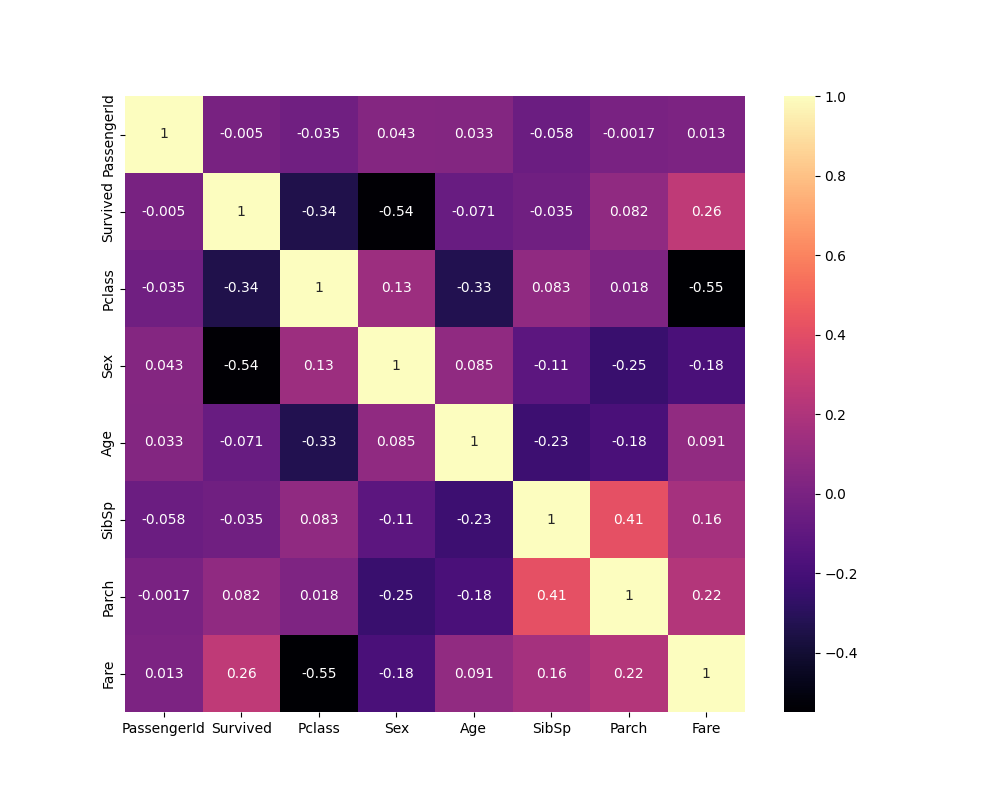
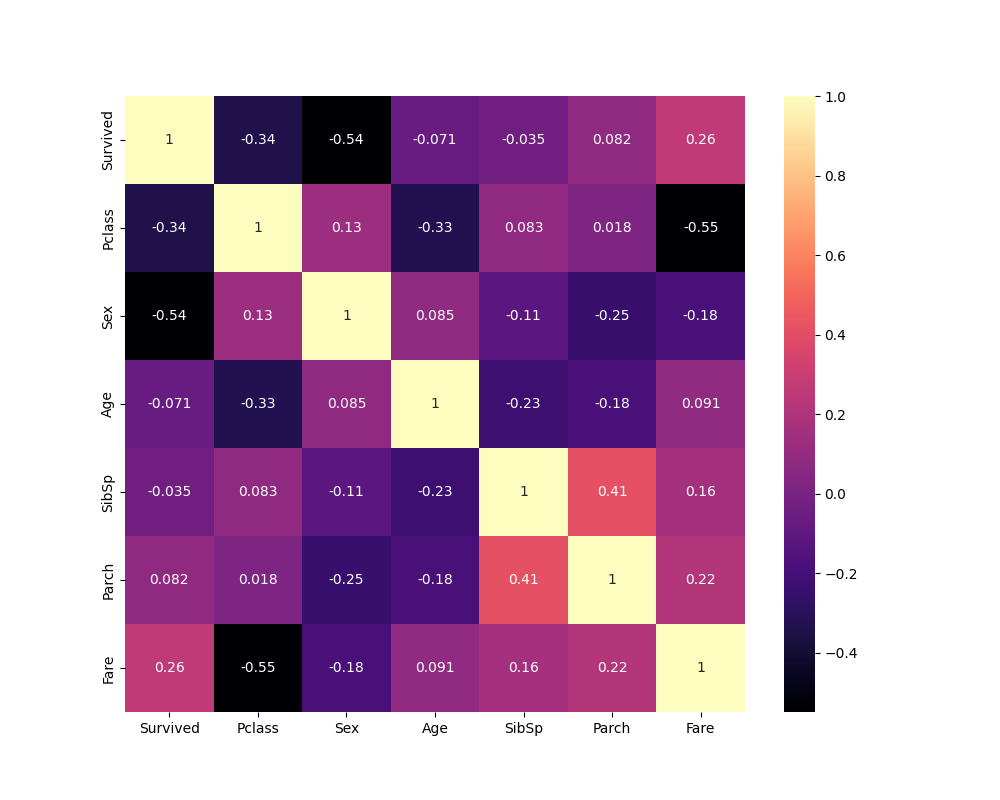
Minor change

Changed region(s): [[0.093, 0.0938, 0.744, 0.9375], [0.589, 0.9062, 0.651, 0.9375], [0.682, 0.9062, 0.713, 0.9375]]

diff --git a/MachineLearningProject.py b/MachineLearningProject.py
@@ -18,12 +18,12 @@ def data_cleaning(df):
     # Missing age will be replaced by the average
     avg = df['Age'].mean().round()
     df['Age'] = df['Age'].fillna(avg)
-    # 'Cabin' field is irrelevant to our model
-    df = df.drop(['Cabin'], axis=1)
-    # Only 2 NA values, these will be dropped
-    df = df.drop(['Embarked'], axis=1)
-    df = df.drop(['Name'], axis=1)
-    df = df.drop(['Ticket'], axis =1)
+    # Drop irrelevant columns
+    df = df.drop(['PassengerId',
+                  'Name',
+                  'Ticket',
+                  'Embarked',
+                  'Cabin'], axis=1)
     # Male = 1, Female = 0
     df['Sex'] = (df['Sex'] == 'male').astype(int)
     return df
@@ -39,6 +39,6 @@ def correlation_matrix(df):
 
 
 if __name__ == '__main__':
-    clean_df = data_cleaning(df)
+    clean_df = data_cleaning(df) 
     correlation_matrix(clean_df)
     
